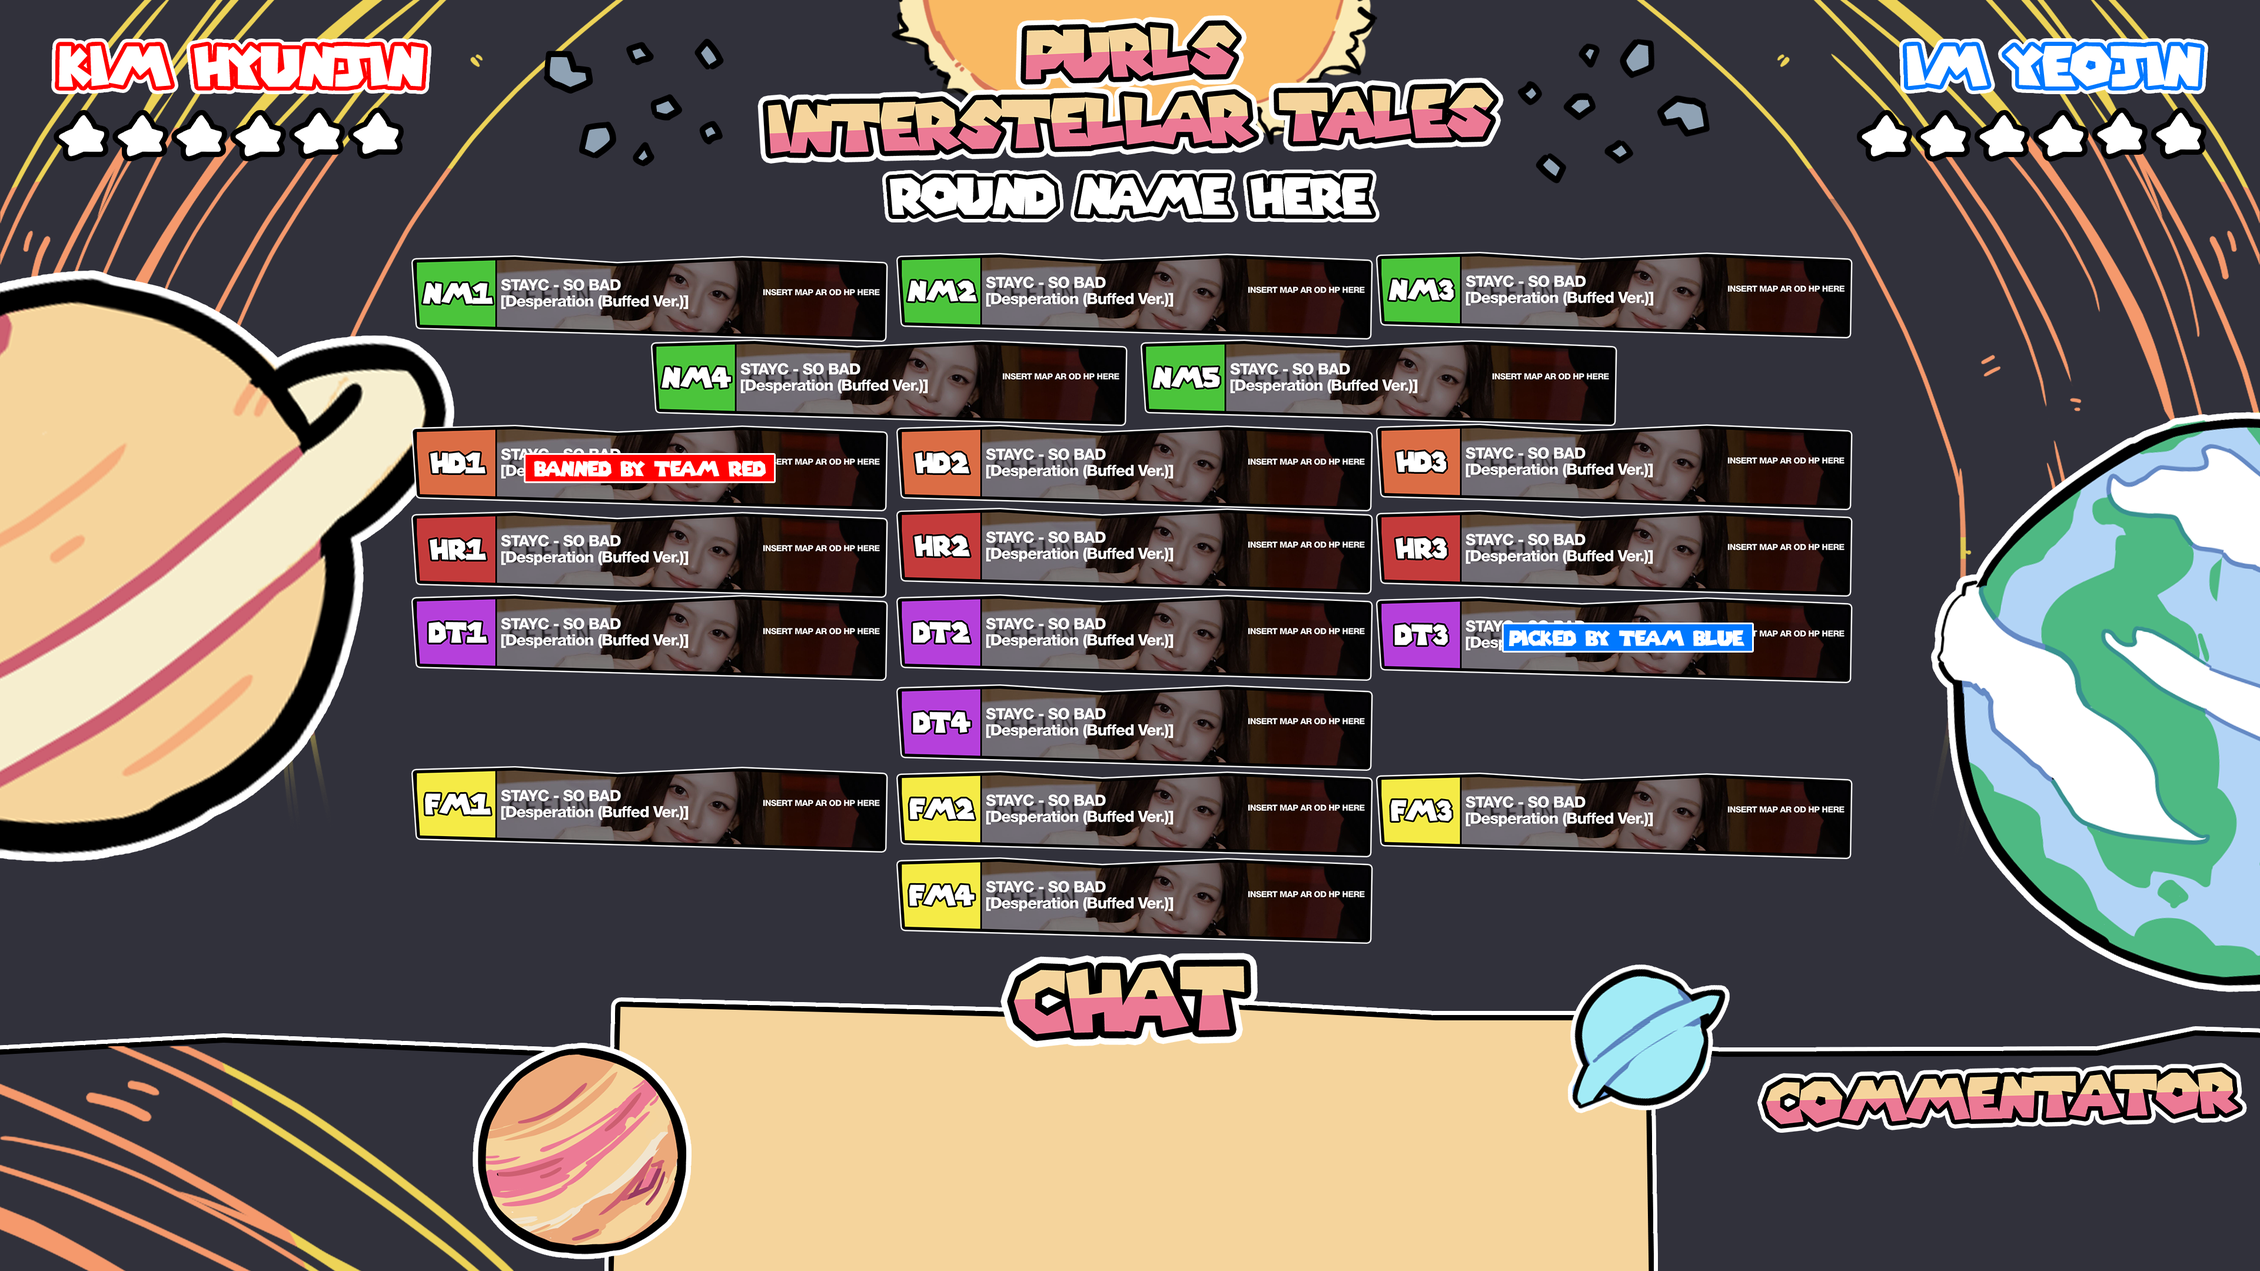
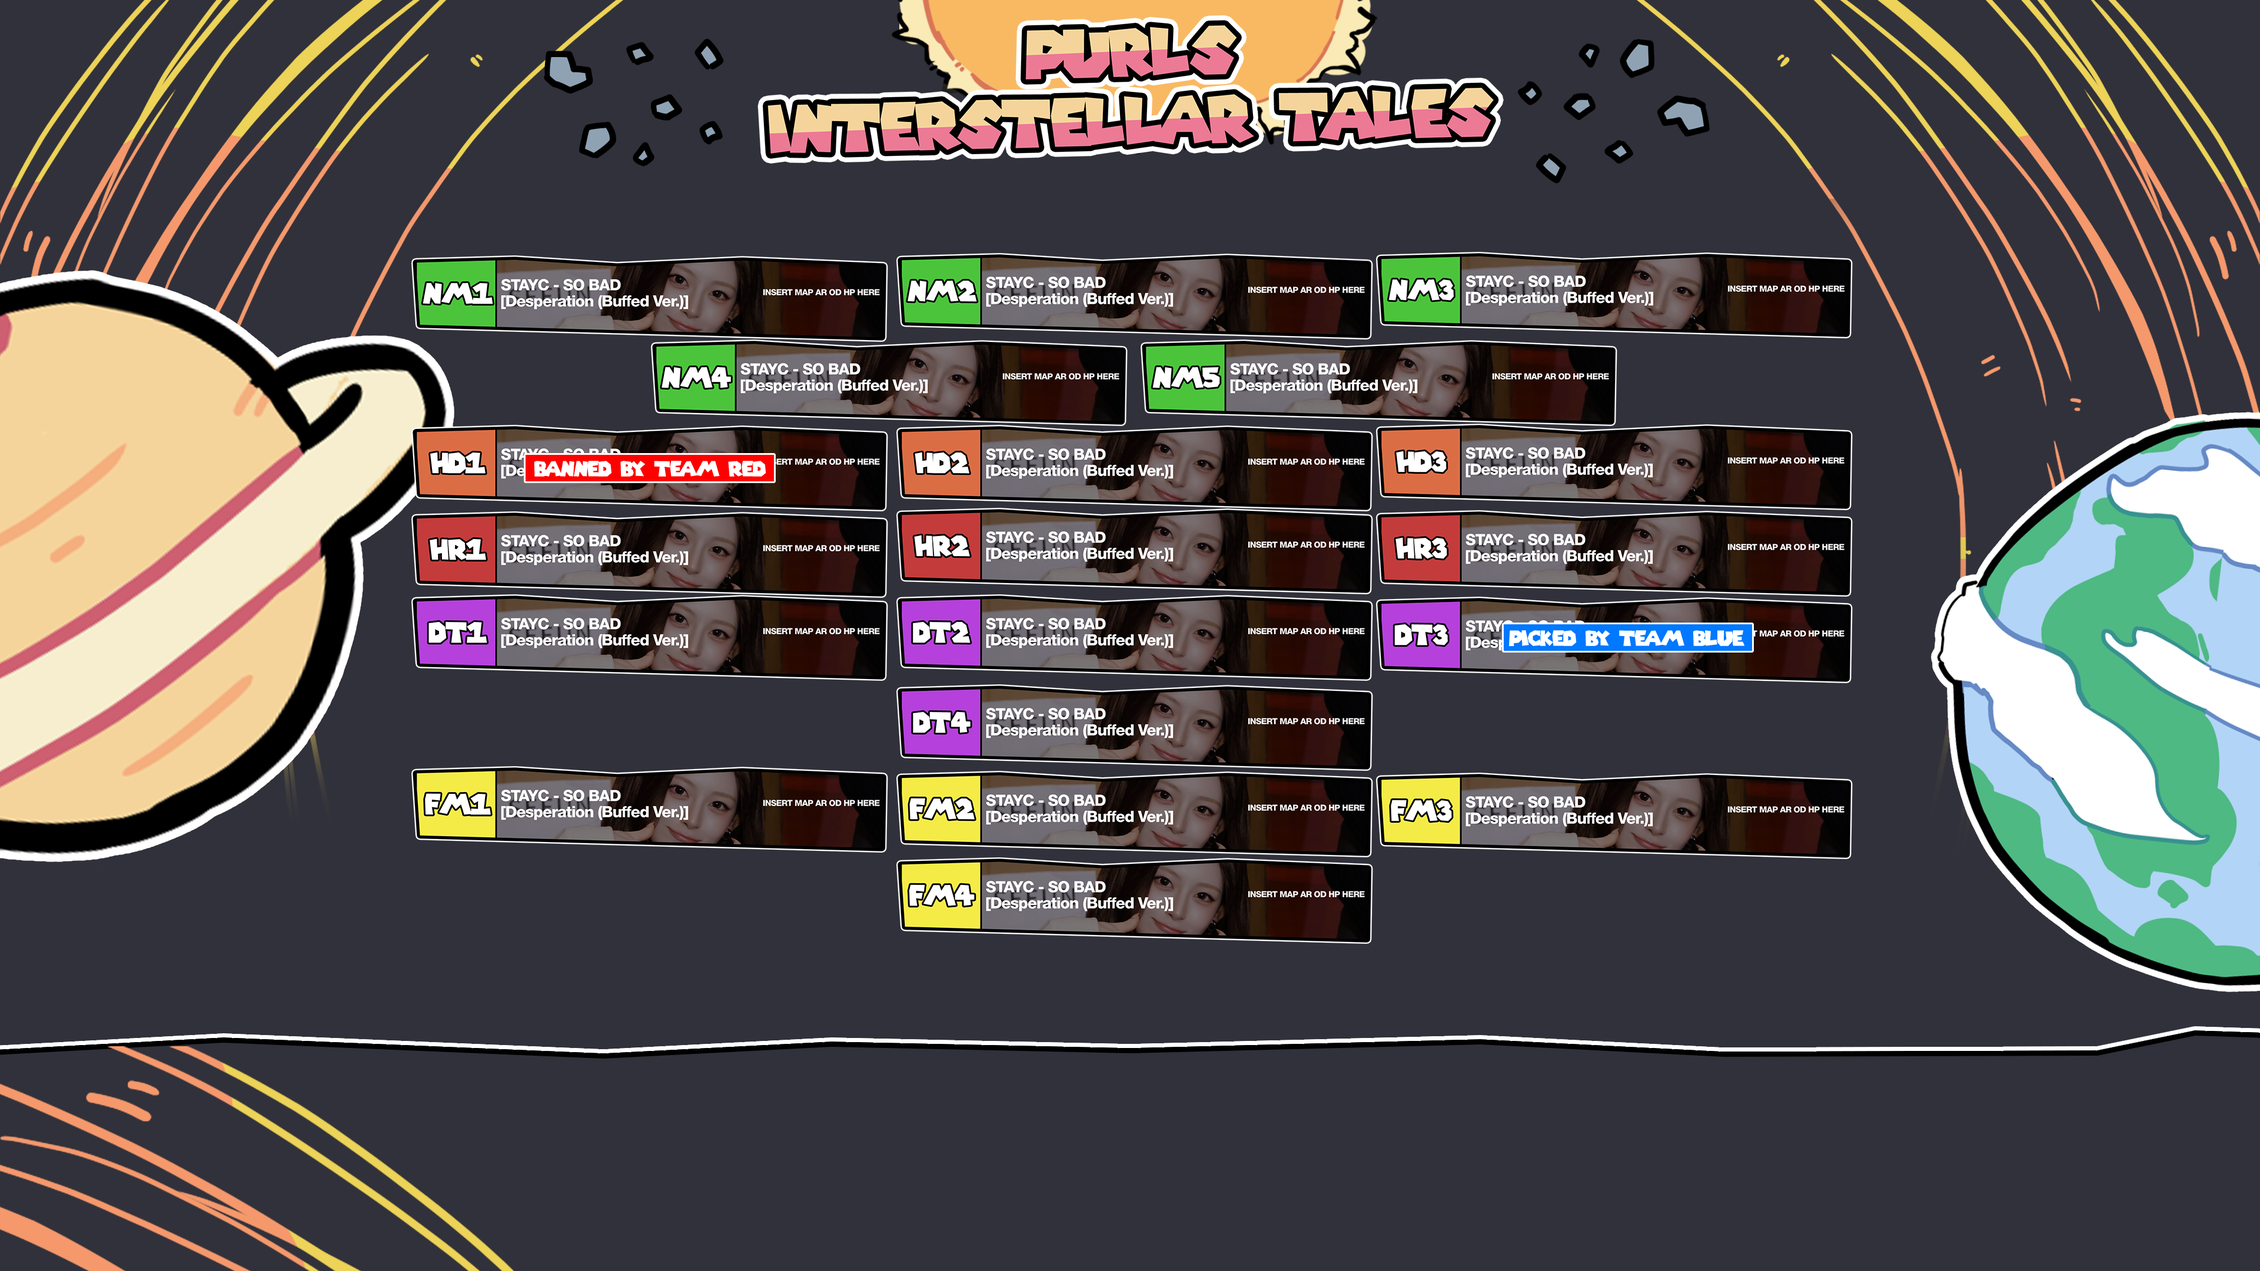
chore: remove unused assets

diff --git a/mappool/index.html b/mappool/index.html
@@ -344,14 +344,6 @@
             </text>
         </svg>
 
-        <!-- Greenscreens -->
-        <div class="greenscreen greenscreen-top greenscreen-x-1"></div>
-        <div class="greenscreen greenscreen-bottom greenscreen-x-1"></div>
-        <div class="greenscreen greenscreen-bottom greenscreen-x-2"></div>
-        <div class="greenscreen greenscreen-top greenscreen-x-4"></div>
-        <div class="greenscreen greenscreen-bottom greenscreen-x-3"></div>
-        <div class="greenscreen greenscreen-bottom greenscreen-x-4"></div>
-
         <!-- Chat Box -->
         <div class="chat-container" id="chat-container">
             <img class="chatbox-background" src="static/chatbox/chatbox.png">
@@ -359,181 +351,6 @@
             <img class="chatbox-uranus" src="static/chatbox/uranus.png">
             <div class="chatbox-container" id="chatbox-container"></div>
             <img class="chatbox-chat-text" src="static/chatbox/chat-text.png">
-        </div>
-
-        <!-- Scores and Now Playing -->
-        <div class="scores-now-playing" id="scores-now-playing">
-            <!-- Scores Text -->
-            <img class="scores-text" src="static/scores.png">
-
-            <!-- Left Score -->
-            <svg
-                class="team-score-container team-left-score-container"
-                xmlns="http://www.w3.org/2000/svg"
-                width="600"
-                height="104"
-                viewBox="0 0 600 104"
-            >
-                <defs>
-                    <filter id="outline-blend-score-red" x="-20%" y="-50%" width="140%" height="200%">
-                        <!-- Outer white ring -->
-                        <feMorphology in="SourceAlpha" operator="dilate" radius="6" result="white-dilate" />
-                        <feGaussianBlur in="white-dilate" stdDeviation="2.5" result="white-blur" />
-                        <feColorMatrix
-                            in="white-blur"
-                            type="matrix"
-                            values="0 0 0 0 0
-                                    0 0 0 0 0
-                                    0 0 0 0 0
-                                    0 0 0 25 -8"
-                            result="white-round"
-                        />
-                        <feFlood flood-color="white" result="white-color" />
-                        <feComposite in="white-color" in2="white-round" operator="in" result="white-layer" />
-                    
-                        <!-- Inner red ring -->
-                        <feMorphology in="SourceAlpha" operator="dilate" radius="3.5" result="red-dilate" />
-                        <feGaussianBlur in="red-dilate" stdDeviation="1.5" result="red-blur" />
-                        <feColorMatrix
-                            in="red-blur"
-                            type="matrix"
-                            values="0 0 0 0 0
-                                    0 0 0 0 0
-                                    0 0 0 0 0
-                                    0 0 0 25 -8"
-                            result="red-round"
-                        />
-                        <feFlood flood-color="#ff0000" result="red-color" />
-                        <feComposite in="red-color" in2="red-round" operator="in" result="red-layer" />
-                    
-                        <!-- Stack: white ring (bottom) -> red ring -> actual text fill (top) -->
-                        <feMerge>
-                            <feMergeNode in="white-layer" />
-                            <feMergeNode in="red-layer" />
-                            <feMergeNode in="SourceGraphic" />
-                        </feMerge>
-                    </filter>
-                </defs>
-            
-                <text
-                    x="553"
-                    y="78"
-                    text-anchor="end"
-                    font-size="48px"
-                    letter-spacing="-1"
-                    font-family="Super Mario Galaxy"
-                    fill="white"
-                    class="team-name-right"
-                    id="team-score-left"
-                    filter="url(#outline-blend-score-red)"
-                >
-                    1,000,000
-                </text>
-            </svg>
-
-            <!-- Right Score -->
-            <svg
-                class="team-score-container team-right-score-container"
-                xmlns="http://www.w3.org/2000/svg"
-                width="600"
-                height="104"
-                viewBox="0 0 600 104"
-            >
-                <defs>
-                    <filter id="outline-blend-score-blue" x="-20%" y="-50%" width="140%" height="200%">
-                        <!-- Outer white ring -->
-                        <feMorphology in="SourceAlpha" operator="dilate" radius="6" result="white-dilate" />
-                        <feGaussianBlur in="white-dilate" stdDeviation="2.5" result="white-blur" />
-                        <feColorMatrix
-                            in="white-blur"
-                            type="matrix"
-                            values="0 0 0 0 0
-                                    0 0 0 0 0
-                                    0 0 0 0 0
-                                    0 0 0 25 -8"
-                            result="white-round"
-                        />
-                        <feFlood flood-color="white" result="white-color" />
-                        <feComposite in="white-color" in2="white-round" operator="in" result="white-layer" />
-                    
-                        <!-- Inner blue ring -->
-                        <feMorphology in="SourceAlpha" operator="dilate" radius="3.5" result="blue-dilate" />
-                        <feGaussianBlur in="blue-dilate" stdDeviation="1.5" result="blue-blur" />
-                        <feColorMatrix
-                            in="blue-blur"
-                            type="matrix"
-                            values="0 0 0 0 0
-                                    0 0 0 0 0
-                                    0 0 0 0 0
-                                    0 0 0 25 -8"
-                            result="blue-round"
-                        />
-                        <feFlood flood-color="#0078ff" result="blue-color" />
-                        <feComposite in="blue-color" in2="blue-round" operator="in" result="blue-layer" />
-                    
-                        <!-- Stack: white ring (bottom) -> blue ring -> actual text fill (top) -->
-                        <feMerge>
-                            <feMergeNode in="white-layer" />
-                            <feMergeNode in="blue-layer" />
-                            <feMergeNode in="SourceGraphic" />
-                        </feMerge>
-                    </filter>
-                </defs>
-            
-                <text
-                    x="47"
-                    y="78"
-                    text-anchor="start"
-                    font-size="48px"
-                    letter-spacing="-1"
-                    font-family="Super Mario Galaxy"
-                    fill="white"
-                    class="team-name-right"
-                    id="team-score-right"
-                    filter="url(#outline-blend-score-blue)"
-                >
-                    1,000,000
-                </text>
-            </svg>
-
-            <!-- Now Playing Backgrounds -->
-            <img class="now-playing-saturn" src="static/now-playing/saturn.png">
-            <img class="now-playing-earth" src="static/now-playing/earth.png">
-
-            <!-- Now Playing Wrapper -->
-            <div class="now-playing-wrapper">
-            
-                <svg class="now-playing-border" viewBox="0 0 680 91" xmlns="http://www.w3.org/2000/svg">
-                    <g transform="translate(96.92852783203125,-0.106964111328125)">
-                        <!-- outer white stroke -->
-                        <path
-                            d="M0 0 C9 -0.24 18 -0.39 27.01 -0.46 C28.1 -0.46 28.1 -0.46 29.21 -0.47 C52.13 -0.65 74.86 0.35 97.71 2.07 C98.97 2.16 100.23 2.26 101.53 2.35 C106.75 2.74 111.96 3.13 117.17 3.52 C176.29 7.95 234.01 7.79 293.24 3.87 C307.72 2.91 322.21 2.21 336.7 1.57 C341.24 1.37 345.77 1.15 350.3 0.92 C351.46 0.87 352.63 0.81 353.82 0.75 C355.88 0.65 357.94 0.54 359.99 0.44 C375.94 -0.32 391.87 0.15 407.81 0.83 C409.7 0.9 411.58 0.98 413.47 1.06 C418.54 1.26 423.6 1.48 428.67 1.69 C432.91 1.87 437.15 2.04 441.39 2.22 C451.38 2.63 461.38 3.05 471.37 3.47 C481.68 3.9 491.98 4.33 502.29 4.75 C511.16 5.12 520.04 5.49 528.91 5.86 C534.2 6.08 539.49 6.3 544.78 6.52 C549.74 6.72 554.69 6.93 559.65 7.14 C561.47 7.22 563.29 7.29 565.11 7.37 C567.59 7.47 570.07 7.58 572.55 7.68 C573.27 7.71 574 7.74 574.75 7.77 C577.75 7.9 580.2 8.15 583.07 9.11 C583.07 36.17 583.07 63.23 583.07 91.11 C360.32 91.11 137.57 91.11 -91.93 91.11 C-92.67 87.41 -93.15 84.12 -93.41 80.4 C-93.53 78.71 -93.53 78.71 -93.65 76.98 C-93.73 75.77 -93.82 74.55 -93.9 73.3 C-94.03 71.4 -94.03 71.4 -94.17 69.45 C-94.35 66.76 -94.53 64.06 -94.71 61.36 C-94.9 58.64 -95.08 55.92 -95.27 53.2 C-96.45 36.47 -97.22 19.88 -96.93 3.11 C-89.47 2.84 -82.01 2.57 -74.55 2.31 C-72.03 2.22 -69.52 2.13 -67 2.04 C-46.68 1.31 -26.37 0.68 -6.05 0.16 C-4.03 0.11 -2.02 0.05 0 0 Z"
-                            fill="white" stroke="white" stroke-width="8"
-                            stroke-linejoin="round" stroke-linecap="round"/>
-                    
-                        <!-- inner red stroke -->
-                        <path
-                            d="M0 0 C9 -0.24 18 -0.39 27.01 -0.46 C28.1 -0.46 28.1 -0.46 29.21 -0.47 C52.13 -0.65 74.86 0.35 97.71 2.07 C98.97 2.16 100.23 2.26 101.53 2.35 C106.75 2.74 111.96 3.13 117.17 3.52 C176.29 7.95 234.01 7.79 293.24 3.87 C307.72 2.91 322.21 2.21 336.7 1.57 C341.24 1.37 345.77 1.15 350.3 0.92 C351.46 0.87 352.63 0.81 353.82 0.75 C355.88 0.65 357.94 0.54 359.99 0.44 C375.94 -0.32 391.87 0.15 407.81 0.83 C409.7 0.9 411.58 0.98 413.47 1.06 C418.54 1.26 423.6 1.48 428.67 1.69 C432.91 1.87 437.15 2.04 441.39 2.22 C451.38 2.63 461.38 3.05 471.37 3.47 C481.68 3.9 491.98 4.33 502.29 4.75 C511.16 5.12 520.04 5.49 528.91 5.86 C534.2 6.08 539.49 6.3 544.78 6.52 C549.74 6.72 554.69 6.93 559.65 7.14 C561.47 7.22 563.29 7.29 565.11 7.37 C567.59 7.47 570.07 7.58 572.55 7.68 C573.27 7.71 574 7.74 574.75 7.77 C577.75 7.9 580.2 8.15 583.07 9.11 C583.07 36.17 583.07 63.23 583.07 91.11 C360.32 91.11 137.57 91.11 -91.93 91.11 C-92.67 87.41 -93.15 84.12 -93.41 80.4 C-93.53 78.71 -93.53 78.71 -93.65 76.98 C-93.73 75.77 -93.82 74.55 -93.9 73.3 C-94.03 71.4 -94.03 71.4 -94.17 69.45 C-94.35 66.76 -94.53 64.06 -94.71 61.36 C-94.9 58.64 -95.08 55.92 -95.27 53.2 C-96.45 36.47 -97.22 19.88 -96.93 3.11 C-89.47 2.84 -82.01 2.57 -74.55 2.31 C-72.03 2.22 -69.52 2.13 -67 2.04 C-46.68 1.31 -26.37 0.68 -6.05 0.16 C-4.03 0.11 -2.02 0.05 0 0 Z"
-                            fill="red" stroke="black" stroke-width="4"
-                            stroke-linejoin="round" stroke-linecap="round"/>
-                    </g>
-                </svg>
-            
-                <div class="now-playing-container">
-                    <div class="now-playing-background" id="now-playing-background">
-                        <div class="now-playing-background-overlay"></div>
-                    </div>
-                    <div class="now-playing-mod" id="now-playing-mod">DT2</div>
-                    <div class="now-playing-metadata now-playing-artist-title" id="now-playing-artist-title">STAYC - SO BAR</div>
-                    <div class="now-playing-metadata now-playing-version" id="now-playing-version">[Desperation (Buffed Ver.)]</div>
-                    <div class="now-playing-stats-container">
-                        <div id="now-playing-stats-cs">CS: 10.55</div>
-                        <div id="now-playing-stats-ar">AR: 10.55</div>
-                        <div id="now-playing-stats-od">OD: 10.55</div>
-                        <div class="now-playing-stats-star" id="now-playing-stats-sr">SR: 10.55</div>
-                    </div>
-                </div>
-            </div>
         </div>
 
         <div class="camera camera-left">Camera 1</div>

diff --git a/mappool/index.js b/mappool/index.js
@@ -64,22 +64,6 @@ const teamNameLeftEl = document.getElementById("team-name-left")
 const teamNameRightEl = document.getElementById("team-name-right")
 let currentTeamNameLeft, currentTeamNameRight
 
-// Now Playing Info
-const nowPlayingBackgroundEl = document.getElementById("now-playing-background")
-const nowPlayingModEl = document.getElementById("now-playing-mod")
-const nowPlayingArtistTitleEl = document.getElementById("now-playing-artist-title")
-const nowPlayingVersionEl = document.getElementById("now-playing-version")
-const nowPlayingStatsCsEl = document.getElementById("now-playing-stats-cs")
-const nowPlayingStatsArEl = document.getElementById("now-playing-stats-ar")
-const nowPlayingStatsOdEl = document.getElementById("now-playing-stats-od")
-const nowPlayingStatsSrEl = document.getElementById("now-playing-stats-sr")
-let currentId, currentChecksum, updateStats = false
-
-// Score visibility
-const chatContainerEl = document.getElementById("chat-container")
-const scoresNowPlayingEl = document.getElementById("scores-now-playing")
-let scoreVisible
-
 // Chat
 const chatboxContainerEl = document.getElementById("chatbox-container")
 let chatLen
@@ -150,71 +134,6 @@ async function getData() {
     if (currentTeamNameRight !== teamNames.right) {
         currentTeamNameRight = teamNames.right
         teamNameRightEl.textContent = currentTeamNameRight
-    }
-
-    // Now Playing Information
-    const beatmapData = tosuData.beatmap
-    const mappoolInfo = data.mappoolInfo
-    if (currentId !== beatmapData.id || currentChecksum !== beatmapData.checksum) {
-        currentId = beatmapData.id
-        currentChecksum = beatmapData.checksum
-
-        // Metadata
-        const url = `${window.location.origin}/Songs/${tosuData.directPath.beatmapBackground}`
-        const fixedUrl = encodeURI(url.replaceAll("\\", "/"));
-        nowPlayingBackgroundEl.style.backgroundImage = `url("${fixedUrl}")`
-        nowPlayingArtistTitleEl.textContent = `${beatmapData.artist} - ${beatmapData.title}`
-        nowPlayingVersionEl.textContent = `[${beatmapData.version}]`
-
-        // Mod info
-        if (mappoolInfo.mappoolMapFound) {
-            nowPlayingModEl.style.backgroundColor = `var(--${mappoolInfo.currentPicker}-team-colour)`
-            nowPlayingModEl.textContent = mappoolInfo.mappoolMapModId
-
-            const currentBeatmap = mappoolInfo.currentBeatmap
-            const getStats = getModDetails(
-                currentBeatmap.diff_size,
-                currentBeatmap.diff_approach,
-                currentBeatmap.diff_overall,
-                currentBeatmap.bpm,
-                currentBeatmap.total_length,
-                mappoolInfo.mappoolMapModId
-            )
-
-            nowPlayingStatsCsEl.textContent = `CS: ${Number(getStats.cs).toFixed(1)}`
-            nowPlayingStatsArEl.textContent = `AR: ${Number(getStats.ar).toFixed(1)}`
-            nowPlayingStatsOdEl.textContent = `OD: ${Number(getStats.od).toFixed(1)}`
-            nowPlayingStatsSrEl.textContent = `SR: ${Number(currentBeatmap.difficultyrating).toFixed(2)}`
-            updateStats = false
-        } else {
-            nowPlayingModEl.style.backgroundColor = `gray`
-            nowPlayingModEl.textContent = ""
-
-            await delay(250)
-            updateStats = true
-        }
-    }
-
-    // Update Stats
-    if (updateStats) {
-        const tosuStats = tosuData.beatmap.stats
-        updateStats = false
-        nowPlayingStatsCsEl.textContent = `CS: ${Number(tosuStats.cs.converted).toFixed(1)}`
-        nowPlayingStatsArEl.textContent = `AR: ${Number(tosuStats.ar.converted).toFixed(1)}`
-        nowPlayingStatsOdEl.textContent = `OD: ${Number(tosuStats.od.converted).toFixed(1)}`
-        nowPlayingStatsSrEl.textContent = `SR: ${Number(tosuStats.stars.total).toFixed(2)}`
-    }
-
-    // Score Visible
-    if (scoreVisible !== tourneyData.scoreVisible) {
-        scoreVisible = tourneyData.scoreVisible
-        if (scoreVisible) {
-            scoresNowPlayingEl.style.opacity = 1
-            chatContainerEl.style.opacity = 0
-        } else {
-            scoresNowPlayingEl.style.opacity = 0
-            chatContainerEl.style.opacity = 1
-        }
     }
 
     // Chatbox Container

diff --git a/mappool/style.css b/mappool/style.css
@@ -86,21 +86,6 @@
     top: 135px;
 }
 
-/* Green Screens */
-.greenscreen {
-    position: absolute;
-    left: 0;
-    background-color: #0F0;
-    width: var(--greenscreen-width);
-    height: var(--greenscreen-height);
-}
-.greenscreen-top { top: var(--greenscreen-top-y); }
-.greenscreen-bottom { top: calc(var(--greenscreen-height) + var(--greenscreen-top-y)); }
-.greenscreen-x-1 { left: calc(var(--greenscreen-width) * 0); }
-.greenscreen-x-2 { left: calc(var(--greenscreen-width) * 1); }
-.greenscreen-x-3 { left: calc(var(--greenscreen-width) * 2); }
-.greenscreen-x-4 { left: calc(var(--greenscreen-width) * 3); }
-
 /* Chatbox */
 .chat-container {
     opacity: 0;
